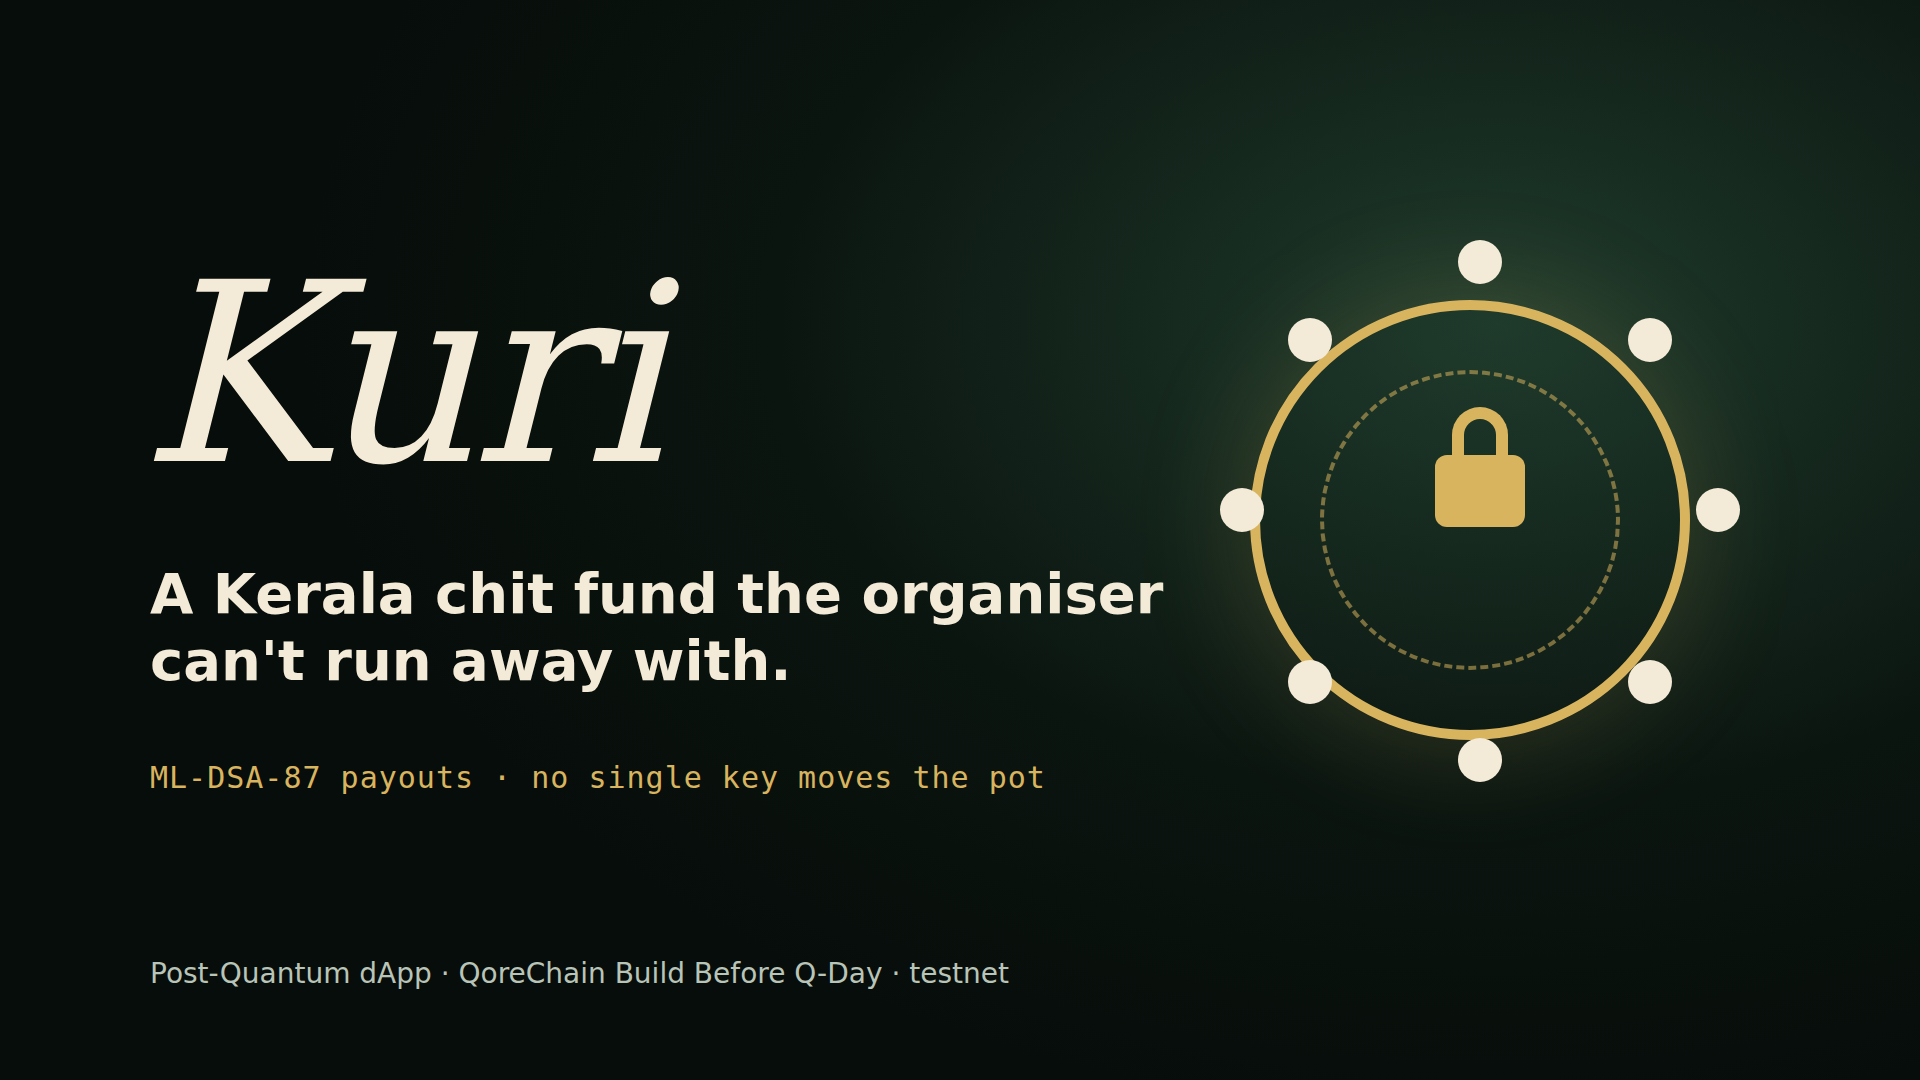
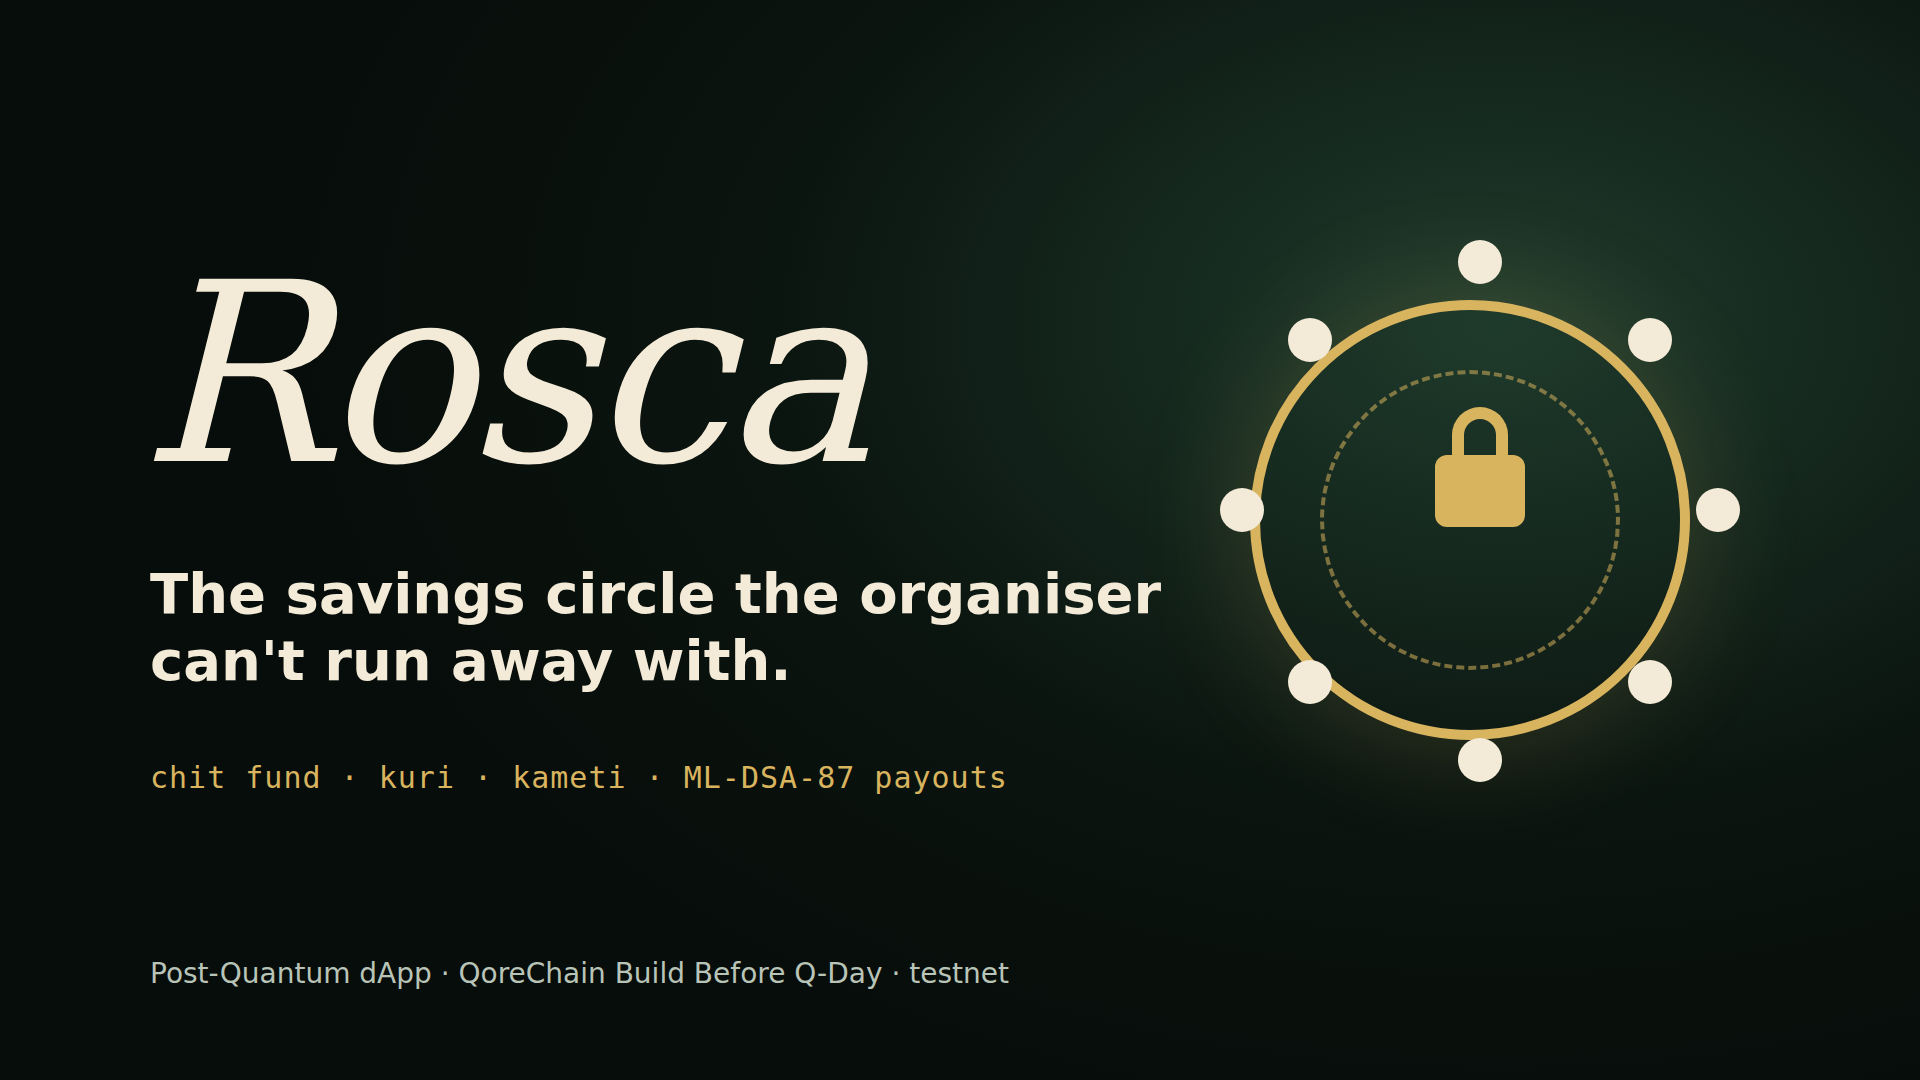
Rename to Rosca: chit fund, kuri, kameti and other names in the README

diff --git a/README.md b/README.md
@@ -1,19 +1,42 @@
-# Kuri
+# Rosca
 
-**A Kerala chit fund the organiser can't run away with.**
+**The savings circle the organiser can't run away with.**
 
 > Built for QoreChain [Build Before Q-Day](https://build.qorechain.io), category **Post-Quantum dApp**.
 > Deadline: 2 December 2026, 23:59 UTC (3 December, 05:29 IST). Testnet only (`qorechain-diana`, EVM chain id 9800).
 
+## What a rosca is
+
+A **rosca** (rotating savings and credit association) is a group of people who each pay the same amount into a pot
+every month. Each month one member takes the whole pot, until everyone has had a turn.
+
+It is one of the oldest ways people save, and it goes by many names:
+
+| Where | Name |
+| --- | --- |
+| India (legal term, Chit Funds Act 1982) | **chit fund** |
+| Kerala | **kuri**, chitty |
+| Tamil Nadu | seettu |
+| Andhra Pradesh, Telangana | chitti |
+| North India | **committee**, kameti |
+| Maharashtra | bhishi |
+| West Africa | ajo, esusu, susu |
+| Mexico | tanda |
+| China | hui |
+| Indonesia | arisan |
+| Korea | kye |
+| Philippines | paluwagan |
+
 ## The problem
 
-A *kuri* (chitty) is a rotating savings group: every member pays in each month, and each month one member takes the pot.
-It is an everyday habit across Kerala and India. The classic fraud is simple: the organiser holds the pot and disappears with it.
+Someone has to hold the pot. In a chit fund or a kuri that is the organiser, and the classic fraud is simple:
+the organiser takes the pot and disappears. Moving the circle on-chain does not fix this if one key can still move
+the money, and a key that is safe today can be broken by a quantum computer tomorrow.
 
-## What Kuri does
+## What Rosca does
 
 - Members pay their monthly share into a pot that **no single key can move**, not even the organiser's.
-- Each month the members bid for the pot; the lowest bid wins, as in a real kuri, and the discount is shared out.
+- Each month the members bid for the pot. The lowest bid wins, as in a real chit fund, and the discount is shared out.
 - Paying out needs the winner's **ML-DSA-87** (post-quantum) signature, checked on chain with `pqcVerify`, and a majority of members.
 - A leaked classical (ECDSA) key alone can move nothing.
 
